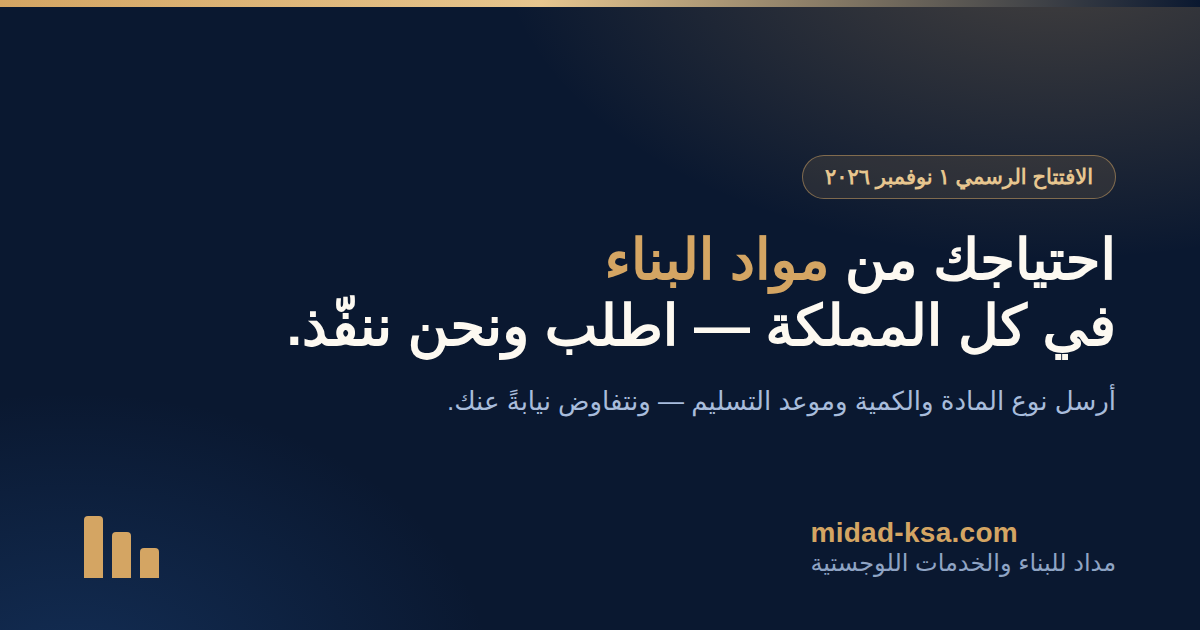
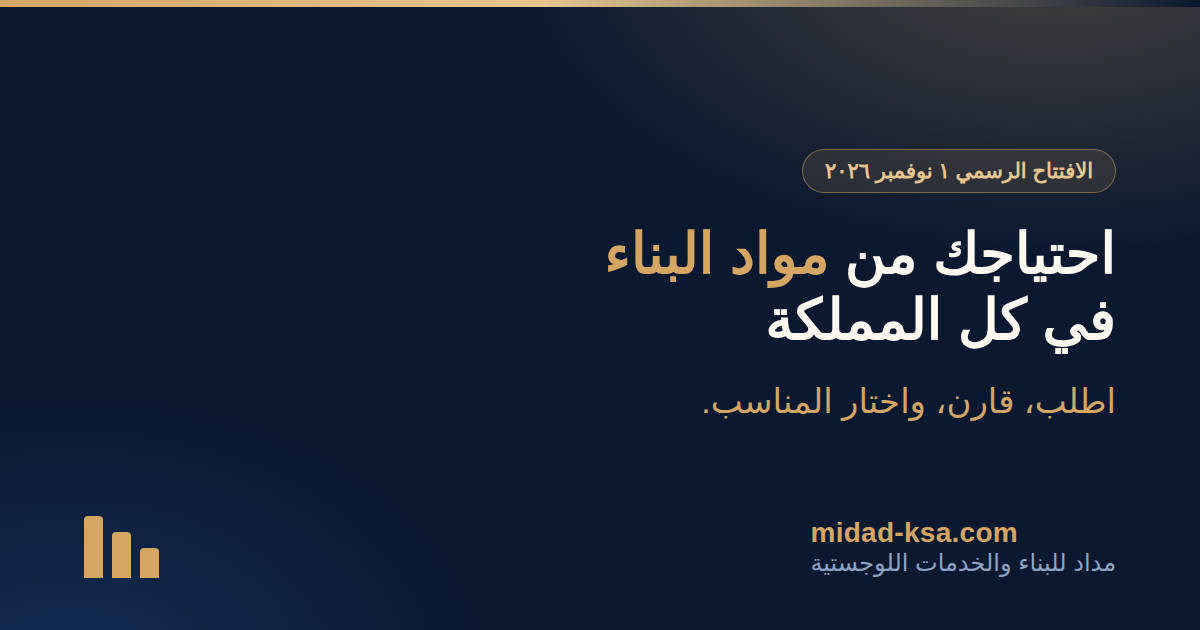
New slogan and real social links

Changed region(s): [[0.2467, 0.3921, 0.925, 0.573], [0.37, 0.6032, 0.925, 0.6635], [0.6783, 0.2413, 0.925, 0.3317]]

diff --git a/index.html b/index.html
@@ -23,16 +23,16 @@
   <!-- Social sharing -->
   <meta property="og:type" content="website" />
   <meta property="og:site_name" content="مداد للبناء والخدمات اللوجستية" />
-  <meta property="og:title" content="مداد للبناء | اطلب مواد البناء بأفضل سعر في المملكة" />
+  <meta property="og:title" content="مداد للبناء | اطلب، قارن، واختار المناسب" />
   <meta property="og:description" content="أرسل احتياجك من مواد البناء — نتفاوض مع شبكة واسعة من الموردين ونوافيك بأفضل عرض: السعر، الكمية، ووقت التسليم." />
   <meta property="og:url" content="https://www.midad-ksa.com/" />
   <meta property="og:image" content="https://www.midad-ksa.com/og-image.png" />
   <meta property="og:image:width" content="1200" />
   <meta property="og:image:height" content="630" />
-  <meta property="og:image:alt" content="مداد للبناء والخدمات اللوجستية — اطلب مواد البناء في كل المملكة" />
+  <meta property="og:image:alt" content="مداد للبناء والخدمات اللوجستية — اطلب، قارن، واختار المناسب" />
   <meta property="og:locale" content="ar_SA" />
   <meta name="twitter:card" content="summary_large_image" />
-  <meta name="twitter:title" content="مداد للبناء | اطلب مواد البناء بأفضل سعر في المملكة" />
+  <meta name="twitter:title" content="مداد للبناء | اطلب، قارن، واختار المناسب" />
   <meta name="twitter:description" content="أرسل احتياجك من مواد البناء — نتفاوض مع شبكة واسعة من الموردين ونوافيك بأفضل عرض: السعر، الكمية، ووقت التسليم." />
   <meta name="twitter:image" content="https://www.midad-ksa.com/og-image.png" />
   <style>
@@ -6370,7 +6370,7 @@ p {
           </svg>
           الافتتاح الرسمي ١ نوفمبر ٢٠٢٦ — استقبال الطلبات بدأ مبكرًا
         </span>
-        <h1 class="reveal d1">احتياجك من <em>مواد البناء</em><br/>في كل المملكة — اطلب ونحن ننفّذ.</h1>
+        <h1 class="reveal d1">احتياجك من <em>مواد البناء</em><br/>في كل المملكة — اطلب، قارن، واختار المناسب.</h1>
         <p class="lead reveal d2">أرسل لنا احتياجك — النوع، الكمية، وموعد التسليم — ونتواصل بالنيابة عنك مع شبكة واسعة من المصانع والموردين في الرياض، جدة، والمدينة المنورة، نتفاوض على أفضل سعر، ونوافيك بعرض كامل: السعر، الكمية المتوفرة، ووقت التسليم.</p>
 
         <div class="countdown reveal d3" id="launchCountdown" aria-label="عدّاد الافتتاح الرسمي" style="display:flex; gap:14px; flex-wrap:wrap; margin-top:32px; justify-content:flex-end;">
@@ -8336,15 +8336,12 @@ p {
           </a>
           <p>منصة سعودية تربط المقاولين والأفراد بأفضل موردي مواد البناء في جميع مناطق المملكة.</p>
           <div class="social-row">
-            <a href="#" aria-label="Twitter"><svg width="16" height="16" viewBox="0 0 24 24" fill="currentColor">
+            <a href="https://x.com/midad_ksa" target="_blank" rel="noopener" aria-label="X"><svg width="16" height="16" viewBox="0 0 24 24" fill="currentColor">
                 <path
                   d="M18.244 2.25h3.308l-7.227 8.26 8.502 11.24H16.17l-5.214-6.817L4.99 21.75H1.68l7.73-8.835L1.254 2.25H8.08l4.713 6.231zm-1.161 17.52h1.833L7.084 4.126H5.117z" />
               </svg></a>
-            <a href="#" aria-label="Instagram"><svg width="16" height="16" viewBox="0 0 24 24" fill="none"
-                stroke="currentColor" stroke-width="2" stroke-linecap="round" stroke-linejoin="round">
-                <rect x="2" y="2" width="20" height="20" rx="5" />
-                <path d="M16 11.37A4 4 0 1 1 12.63 8 4 4 0 0 1 16 11.37z" />
-                <line x1="17.5" y1="6.5" x2="17.51" y2="6.5" />
+            <a href="https://www.tiktok.com/@midad.ksa" target="_blank" rel="noopener" aria-label="TikTok"><svg width="16" height="16" viewBox="0 0 24 24" fill="currentColor">
+                <path d="M12.525.02c1.31-.02 2.61-.01 3.91-.02.08 1.53.63 3.09 1.75 4.17 1.12 1.11 2.7 1.62 4.24 1.79v4.03c-1.44-.05-2.89-.35-4.2-.97-.57-.26-1.1-.59-1.62-.93-.01 2.92.01 5.84-.02 8.75-.08 1.4-.54 2.79-1.35 3.94-1.31 1.92-3.58 3.17-5.91 3.21-1.43.08-2.86-.31-4.08-1.03-2.02-1.19-3.44-3.37-3.65-5.71-.02-.5-.03-1-.01-1.49.18-1.9 1.12-3.72 2.58-4.96 1.66-1.44 3.98-2.13 6.15-1.72.02 1.48-.04 2.96-.04 4.44-.99-.32-2.15-.23-3.02.37-.63.41-1.11 1.04-1.36 1.75-.21.51-.15 1.07-.14 1.61.24 1.64 1.82 3.02 3.5 2.87 1.12-.01 2.19-.66 2.77-1.61.19-.33.4-.67.41-1.06.1-1.79.06-3.57.07-5.36.01-4.03-.01-8.05.02-12.07z" />
               </svg></a>
             <a href="https://wa.me/966920002362" target="_blank" aria-label="WhatsApp"><svg width="16" height="16"
                 viewBox="0 0 24 24" fill="currentColor">
@@ -12198,7 +12195,7 @@ p {
 
     const MEDAD_BIZ = {
       nameAr: 'مداد للبناء والخدمات اللوجستية',
-      tagline: 'منصة ربط المقاولين بموردي مواد البناء',
+      tagline: 'اطلب، قارن، واختار المناسب',
       phone: '920002362',
       whatsapp: '966920002362',
       site: 'midad-ksa.com',
